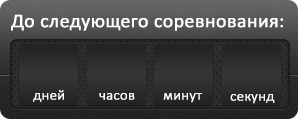
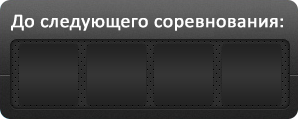
add right endings to time measurements

diff --git a/clockCounter.js b/clockCounter.js
@@ -3,6 +3,11 @@ function ClockCounter() {
 	this.lastHours = '--';
 	this.lastMinutes = '--';
 	this.lastDays = '--';
+
+	this.daysEnding = ['день', 'дня', 'дней'],
+	this.hoursEnding = ['час', 'часа', 'часов'],
+	this.minutesEnding = ['минута', 'минуты', 'минут'],
+	this.secondsEnding = ['секунда', 'секунды', 'секунд']
 }
 
 
@@ -18,24 +23,52 @@ ClockCounter.prototype = {
 			return n.length > 1 ? n : "0" + n;
 		}
 
+
+		function repairEnding(number) {
+			if (number>10 && number <15) {
+				return 2;
+			}
+			var temp = number % 10
+			switch(temp) {
+				case 1: 
+					return 0;
+					break;
+				case 2:
+					return 1;
+					break;
+				case 3:
+					return 1;
+					break;
+				case 4:
+					return 1;
+					break;
+				default:
+					return 2;
+			}
+		}
+
 		this.Date = Date.now();
 		this.timeDifference = Math.max(Math.floor((this.countDate - this.Date) / 1000), 0);
 		//days
 		this.days = Math.floor(this.timeDifference / 86400);
 		this.daysDivNext.innerText = addZero(this.days.toString());
-
+		this.textDaysDiv.innerText = this.daysEnding[repairEnding(this.days)]
 
 		//hours
 		this.hours = Math.floor((this.timeDifference - this.days * 86400) / 3600);
 		this.hoursDivNext.innerText = addZero(this.hours.toString());
+		this.textHoursDiv.innerText = this.hoursEnding[repairEnding(this.hours)]
+
 
 		//minutes
 		this.minutes = Math.floor((this.timeDifference - this.days * 86400 - this.hours * 3600) / 60);
 		this.minutesDivNext.innerText = addZero(this.minutes.toString());
+		this.textMinutesDiv.innerText = this.minutesEnding[repairEnding(this.minutes)]
 
 		//seconds
 		this.seconds = Math.floor(this.timeDifference - this.days * 86400 - this.hours * 3600 - this.minutes * 60);
 		this.secondsDivNext.innerText = addZero(this.seconds.toString());
+		this.textSecondsDiv.innerText = this.secondsEnding[repairEnding(this.seconds)]
 
 		
 		function restoreDiv(tempDiv, tempDivNext) {
@@ -88,12 +121,34 @@ ClockCounter.prototype = {
 		//Town
 		this.townDiv = document.createElement('div');
 		this.townDiv.className = 'town';
-		this.townDiv.innerHTML = place;
+		this.townDiv.innerText = place;
 		this.counterDiv.appendChild(this.townDiv);
 		//layout
 		this.counterChildrenLayoutDiv = document.createElement('div');
 		this.counterChildrenLayoutDiv.className = 'counterChildrenLayout';
 		this.counterDiv.appendChild(this.counterChildrenLayoutDiv);
+
+		//text
+		//days
+		this.textDaysDiv = document.createElement('div');
+		this.textDaysDiv.className = 'text days';
+		this.textDaysDiv.innerText = 'дней';
+		this.counterDiv.appendChild(this.textDaysDiv);
+		//hours
+		this.textHoursDiv = document.createElement('div');
+		this.textHoursDiv.className = 'text hours';
+		this.textHoursDiv.innerText = 'часов';
+		this.counterDiv.appendChild(this.textHoursDiv);
+		//minutes
+		this.textMinutesDiv = document.createElement('div');
+		this.textMinutesDiv.className = 'text minutes';
+		this.textMinutesDiv.innerText = 'минуты';
+		this.counterDiv.appendChild(this.textMinutesDiv);
+		//seconds
+		this.textSecondsDiv = document.createElement('div');
+		this.textSecondsDiv.className = 'text seconds';
+		this.textSecondsDiv.innerText = 'секунд';
+		this.counterDiv.appendChild(this.textSecondsDiv);		
 
 		//days
 		this.daysDiv = document.createElement('div');

diff --git a/styles.css b/styles.css
@@ -1,52 +1,52 @@
 * {
-    margin: 0;
-    padding: 0;
+	margin: 0;
+	padding: 0;
 }
 
 .counter {
-    position: absolute;
-    width: 298px;
-    height: 119px;
+	position: absolute;
+	width: 298px;
+	height: 119px;
 }
 
 .counterChildrenLayout {
-    position: absolute;
-    overflow: hidden;
-    width: 264px;
-    height: 28px;
-    margin-left: 19px;
-    margin-top: 59px;
+	position: absolute;
+	overflow: hidden;
+	width: 264px;
+	height: 28px;
+	margin-left: 19px;
+	margin-top: 59px;
 }
 
 
 .counterChildren {
-    position: absolute;
-    display: block;
-    height: 26px;
-    width: 59px;
-    font-family: 'Russo One';
-    font-size: 26px;
-    color: white;
-    text-align: center;
-    z-index: 1000;
-    background-position: center top;
+	position: absolute;
+	display: block;
+	height: 26px;
+	width: 59px;
+	font-family: 'Russo One';
+	font-size: 26px;
+	color: white;
+	text-align: center;
+	z-index: 1000;
+	background-position: center top;
 }
 
 
 .counterChildrenNext {
-    z-index: 500;
-    background-position: center top;
-    top: -26px;
+	z-index: 500;
+	background-position: center top;
+	top: -26px;
 }
 
 
 .move {
-    -webkit-transform: translate(0,26px);
-    -ms-transform: translate(0,26px);
-    transform: translate(0,26px);
-    transition: -webkit-transform 0.5s;
-    transition: -ms-transform 0.5s;
-    transition: transform 0.5s;
+	-webkit-transform: translate(0,26px);
+	-ms-transform: translate(0,26px);
+	transform: translate(0,26px);
+	transition: -webkit-transform 0.5s;
+	transition: -ms-transform 0.5s;
+	transition: transform 0.5s;
 }
 
 
@@ -56,31 +56,43 @@
 
 
 .hours {
-    left: 68px;
+	left: 68px;
 }
 
 
 .minutes {
-    left: 135px;
+	left: 135px;
 }
 
 
 .seconds {
-    left: 203px;
+	left: 203px;
 }
 
 
 .town {
-    position: absolute;
-    height: 30px;
-    width: 298px;
-    color: white;
-    background-color: #464646;
-    border-radius: 17px;
-    text-align: center;
-    top: 118px;
-    font-family: 'Exo 2';
-    font-size: 18px;
-    font-weight: bold;
-    padding-top: 5px;
+	position: absolute;
+	height: 30px;
+	width: 298px;
+	color: white;
+	background-color: #464646;
+	border-radius: 17px;
+	text-align: center;
+	top: 118px;
+	font-family: 'Exo 2';
+	font-size: 18px;
+	font-weight: bold;
+	padding-top: 5px;
+}
+
+
+.text {
+	width: 59px;
+	position: absolute;
+	color: white;
+	margin-left: 19px;
+	margin-top: 86px;
+	font-family: 'Exo 2';
+	font-size: 13px;
+	text-align: center;
 }

diff --git a/control.js b/control.js
@@ -1,61 +1,58 @@
+var myClock = new ClockCounter()
+var animationStart = setTimeout(function animate() {
+	myClock.countdown()
+	animationStart = setTimeout(animate, 1000)
+}, 1000)
 var datesOfEvents = [
-	{	
-		date: "2016-05-03T09:00:00",
+	{
+		date: "2016-05-03T09:00:00+03:00",
 		place: "Москва, Крокус Экспо"
 	},
 
-	{	
-		date: "2016-05-14T09:00:00",
+	{
+		date: "2016-05-14T09:00:00+03:00",
 		place: "Москва, Лидер"
 	},
 
-	{	
-		date: "2016-05-29T09:00:00",
+	{
+		date: "2016-05-29T09:00:00+03:00",
 		place: "Москва, Фирсановка"
 	},
 
-	{	
-		date: "2016-06-26T09:00:00",
+	{
+		date: "2016-06-26T09:00:00+03:00",
 		place: "Рязань, АСК Атрон"
 	},
 
-	{	
-		date: "2016-07-10T09:00:00",
+	{
+		date: "2016-07-10T09:00:00+03:00",
 		place: "Москва, Лидер"
 	},
 
-	{	
-		date: "2016-08-28T09:00:00",
+	{
+		date: "2016-08-28T09:00:00+03:00",
 		place: "Москва, Фирсановка"
 	},
 
-	{	
-		date: "2016-09-25T09:00:00",
+	{
+		date: "2016-09-25T09:00:00+03:00",
 		place: "Курск, к-м Кононова"
-	},
+	}
 ];
 
 
-
-
-var myClock = new ClockCounter();
-chooseEventDate();
+chooseEventDate()
 
 
 function chooseEventDate() {
 	for (var i = 0; i < datesOfEvents.length; i++) {
-		var date = new Date(datesOfEvents[i].date);
+		var date = new Date(datesOfEvents[i].date)
 		if (date - Date.now() > 0) {
-			myClock.setDate(date);
-			myClock.drawCounter(datesOfEvents[i].place);
-			return;
+			myClock.setDate(date)
+			myClock.drawCounter(datesOfEvents[i].place)
+			return
 		}
 	}
-};
+}
 
-
-var animationStart = setTimeout(function animate() {
-	myClock.countdown();
-	animationStart = setTimeout(animate, 1000);
-}, 1000);
 
